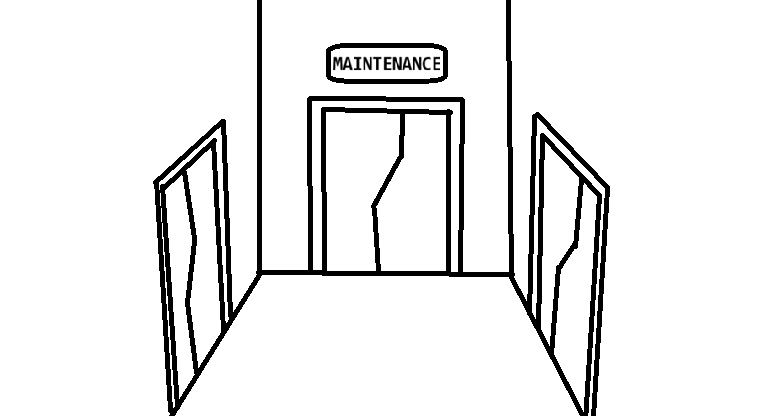
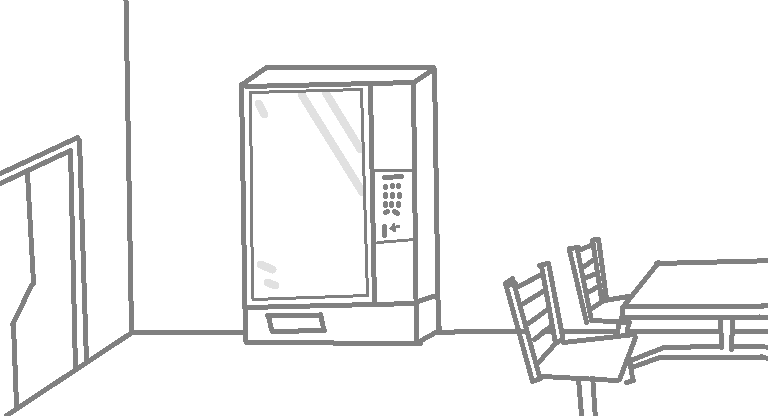
"i misspelled maintenance (also major updates to the inventory system, backgrounds, interaction, and other less important things)"

diff --git a/script.js b/script.js
@@ -104,19 +104,24 @@ const scenes = {
     choices: [
       {
         text: "Enter Break Room",
-        nextScene: "break_room"
+        nextScene: "break_room",
+        hover: broomDoorHover,
+        mouseOut: genOfficesOut
       },
       {
-        text: "Enter Maintainance Hallway <strong>(Locked)</strong>",
+        text: "Enter Maintenance Hallway <strong>(Locked)</strong>",
         action: maintHallway,
         hover: maintDoorHover,
-        mouseOut: maintDoorOut
+        mouseOut: genOfficesOut
       },
       {
           text: "Enter General Offices",
-          nextScene: "general_offices"
+          nextScene: "general_offices",
+          hover: genofficesDoorHover,
+        mouseOut: genOfficesOut
       }
-    ]
+    ],
+    background: "images/placeholder/main_hall_room_placeholder.png"
   },
 
   general_offices: {
@@ -134,7 +139,7 @@ const scenes = {
       },
       {
           text: "Speak to <em>Intern</em>",
-          nextScene: "main_hallway"
+          action: internGiveCoin
       }
     ]
   },
@@ -146,21 +151,29 @@ const scenes = {
     choices: [
       {
         text: "Use <em>Vending Machine</em>",
-        nextScene: "main_hallway"
+        action: sodaVendor,
+        hover: vendingMachineHover,
+        mouseOut: broomOut
       },
       {
         text: "Exit",
-        nextScene: "main_hallway"
+        nextScene: "main_hallway",
+        hover: breakRoomExitDoorHover,
+        mouseOut: broomOut
+        
       },
       {
           text: "Speak to <em>Jameson</em>",
-          nextScene: "main_hallway"
+          action: securityLendKeycard,
+        hover: broomTableHover,
+        mouseOut: broomOut
       }
-    ]
+    ],
+    background: "images/placeholder/break_room_placeholder.png"
   },
 
   maint_hallway: {
-    title: "Location: Maintainance Hallway",
+    title: "Location: Maintenance Hallway",
     character: "Objective: Search for your Supervisor",
     text: "",
     choices: [
@@ -232,6 +245,24 @@ const scenes = {
   },
 };
 
+const items = {
+  keycard: {
+    name: "Keycard",
+    desc: "An ArGO Facilities Level-III Employee Clearance Keycard.",
+    icon: "images/placeholder/placeholder_item_cheese.png"
+  },
+  soda: {
+    name: "Soda",
+    desc: "A delicious soft drink.",
+    icon: "images/placeholder/placeholder_item_soda.png"
+  },
+  coin: {
+    name: "Coin",
+    desc: "A shiny coin valued at 1 whole dollar!.",
+    icon: "images/placeholder/placeholder_item_coin.png"
+  }
+}
+
 // --------------------------------------------------
 // UPDATE SCENES
 // Read through the comments below to see what this section does
@@ -263,6 +294,10 @@ function updateScene(sceneName) {
   if (inspecting == "scene") {
     globalSceneTitle = scene.title;
     globalSceneText = scene.text;
+  }
+
+  if (scene.background) {
+    document.getElementById("background_image").src = scene.background;
   }
 
     // Here, for each html element, you change the textContent to match
@@ -356,8 +391,35 @@ function pickUpItem(itemName) {
     // Add itemName to the inventory array
     // Show the updated inventory on the page
   inventory.push(itemName);
-  inventoryDisplay.textContent = inventory.join(", ");
+  //inventoryDisplay.textContent = inventory.join(", ");
+  updateInventory();
 }
+
+function removeItem(itemName) {
+    // Add itemName to the inventory array
+    // Show the updated inventory on the page
+  var index = inventory.indexOf(itemName);
+  if (index > -1) {
+    inventory.splice(index, 1);
+  }
+  //inventoryDisplay.textContent = inventory.join(", ");
+  updateInventory();
+}
+
+function updateInventory() {
+  for (var i = 1; i <= 4; i++) {
+    document.getElementById("item" + (i)).src = "images/placeholder/placeholder_no_item.png"
+  }
+
+  inventory.forEach((i, index) => {
+    var item = items[i];
+    document.getElementById("item" + (index + 1)).src = item.icon;
+    
+  });
+  console.log(inventory);
+}
+
+updateInventory();
 
 // --------------------------------------------------
 // CONDITIONAL 
@@ -376,28 +438,85 @@ function unlockDoor() {
 
 function maintHallway() {
   inspecting = "maintHallway";
-  globalSceneTitle = "Inspecting: Maintainance Hallway Entrance"
-  if (inventory.includes("Keycard")) {
-    updateScene("solution");
+  globalSceneTitle = "Inspecting: Maintenance Hallway Entrance"
+  if (inventory.includes("keycard")) {
+    updateScene("maint_hallway");
   } else {
     globalSceneText = "This door requires a <u><em>Keycard</em></u>.";
   }
   updateScene(currentScene);
 }
 
-function sodaVendor() {
-  if (inventory.includes("Coin")) {
-    pickUpItem("Soda");
-  } else {
-    sceneText.innerHTML = "This Machine requires a <u><em>Coin</em></u>.";
+function internGiveCoin() {
+  inspecting = "intern";
+  globalSceneTitle = "Speaking: Roland, <em>Intern</em>"
+  if (!inventory.includes("coin")) {
+    pickUpItem("coin");
+    globalSceneText = "\"Have this delicious <u><em>Coin</em></u>. So. Tasty!\"";
   }
+  else {
+    globalSceneText = "\"I think you've had enough.\"";
+  }
+  updateScene(currentScene);
+}
+
+function sodaVendor() {
+  inspecting = "sodaMachine";
+  globalSceneTitle = "Inspecting: Commercial Vending Machine"
+  if (inventory.includes("coin")) {
+    removeItem("coin");
+    globalSceneText = "The Machine dispensed a <u><em>Soda</em></u>.";
+    pickUpItem("soda");
+    
+  } else {
+    globalSceneText = "This Machine requires a <u><em>Coin</em></u>.";
+  }
+  updateScene(currentScene);
+}
+
+function securityLendKeycard() {
+  inspecting = "sodaMachine";
+  globalSceneTitle = "Speaking: Liam Jameson, <em>Security Officer Second Class</em>"
+  if (inventory.includes("soda")) {
+    globalSceneText = "\"Just what the doctor ordered. Have my <u><em>Keycard</em></u>.\"";
+    pickUpItem("keycard");
+    removeItem("soda");
+  } else {
+    globalSceneText = "\"You get me a <u><em>Soda</em></u>, I'll lend you my <u><em>Keycard</em></u>.\"";
+  }
+  updateScene(currentScene);
 }
 
 function maintDoorHover() {
-  document.getElementById("background_select_3").style.opacity = 1;
+  document.getElementById("background_image").src = "images/placeholder/main_hall_room_sel_maint.png";
 }
 
-function maintDoorOut() {
-  document.getElementById("background_select_3").style.opacity = 0;
+function broomDoorHover() {
+  document.getElementById("background_image").src = "images/placeholder/main_hall_room_sel_broom.png";
 }
+
+function genofficesDoorHover() {
+  document.getElementById("background_image").src = "images/placeholder/main_hall_room_sel_genoffices.png";
+}
+
+function genOfficesOut() {
+  document.getElementById("background_image").src = scenes[currentScene].background;
+}
+
+function breakRoomExitDoorHover() {
+  document.getElementById("background_image").src = "images/placeholder/break_room_placeholder_sel_door.png";
+}
+
+function vendingMachineHover() {
+  document.getElementById("background_image").src = "images/placeholder/break_room_placeholder_sel_vend.png";
+}
+
+function broomTableHover() {
+  document.getElementById("background_image").src = "images/placeholder/break_room_placeholder_sel_table.png";
+}
+
+function broomOut() {
+  document.getElementById("background_image").src = scenes[currentScene].background;
+}
+
 
